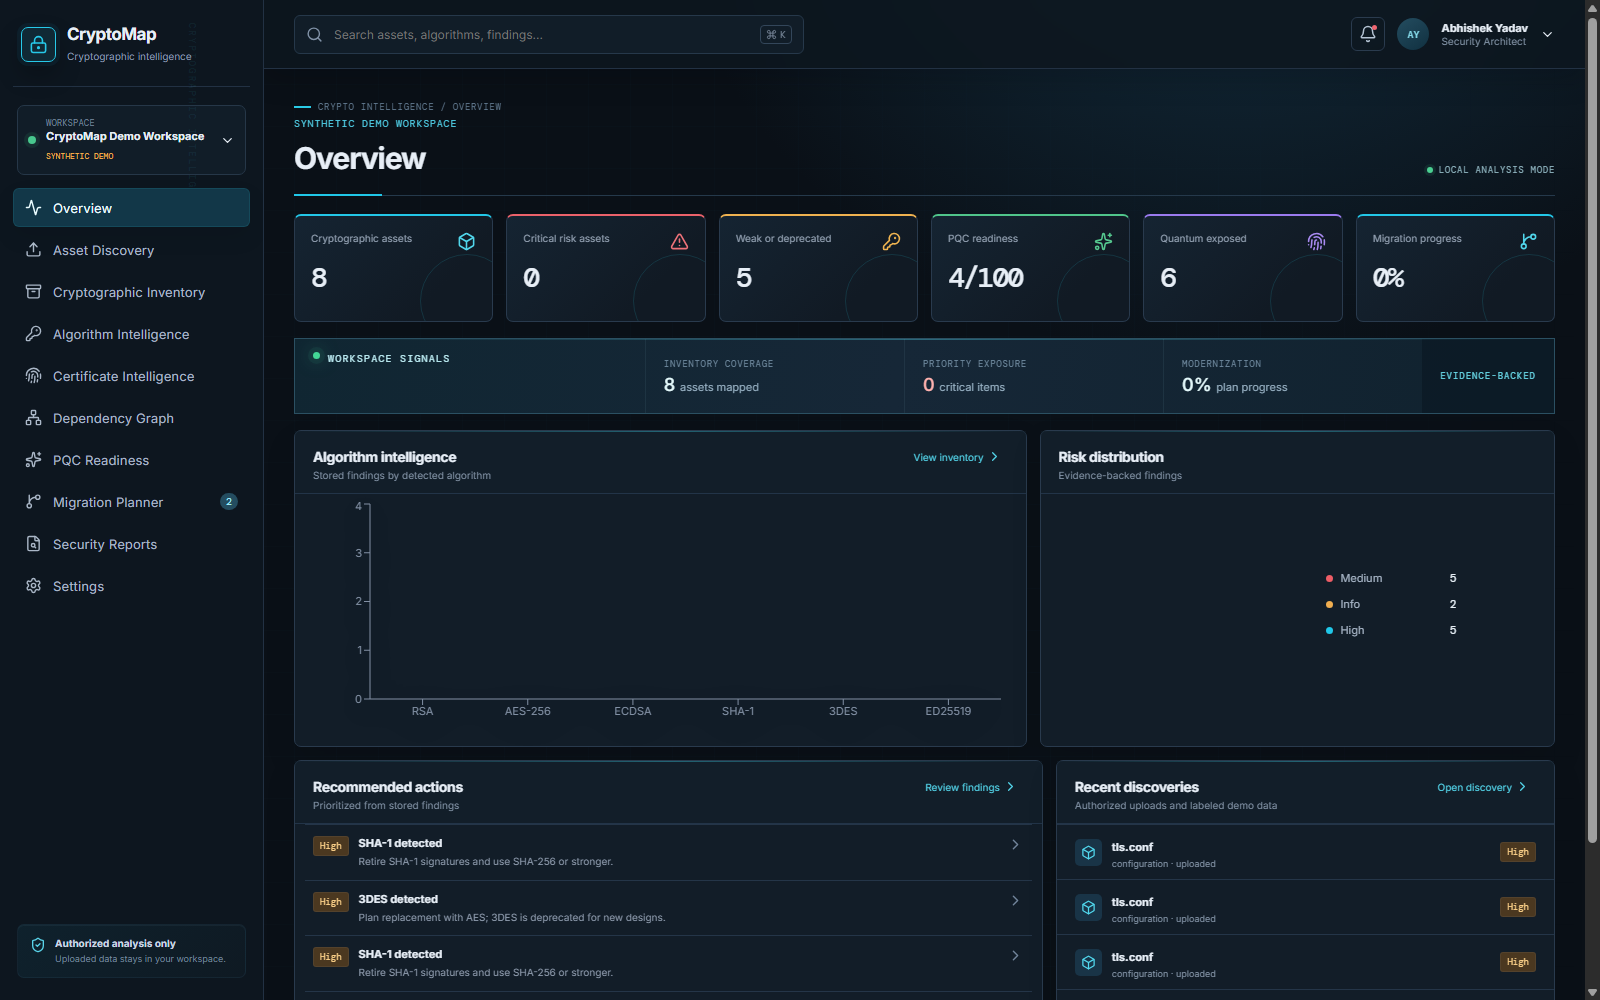
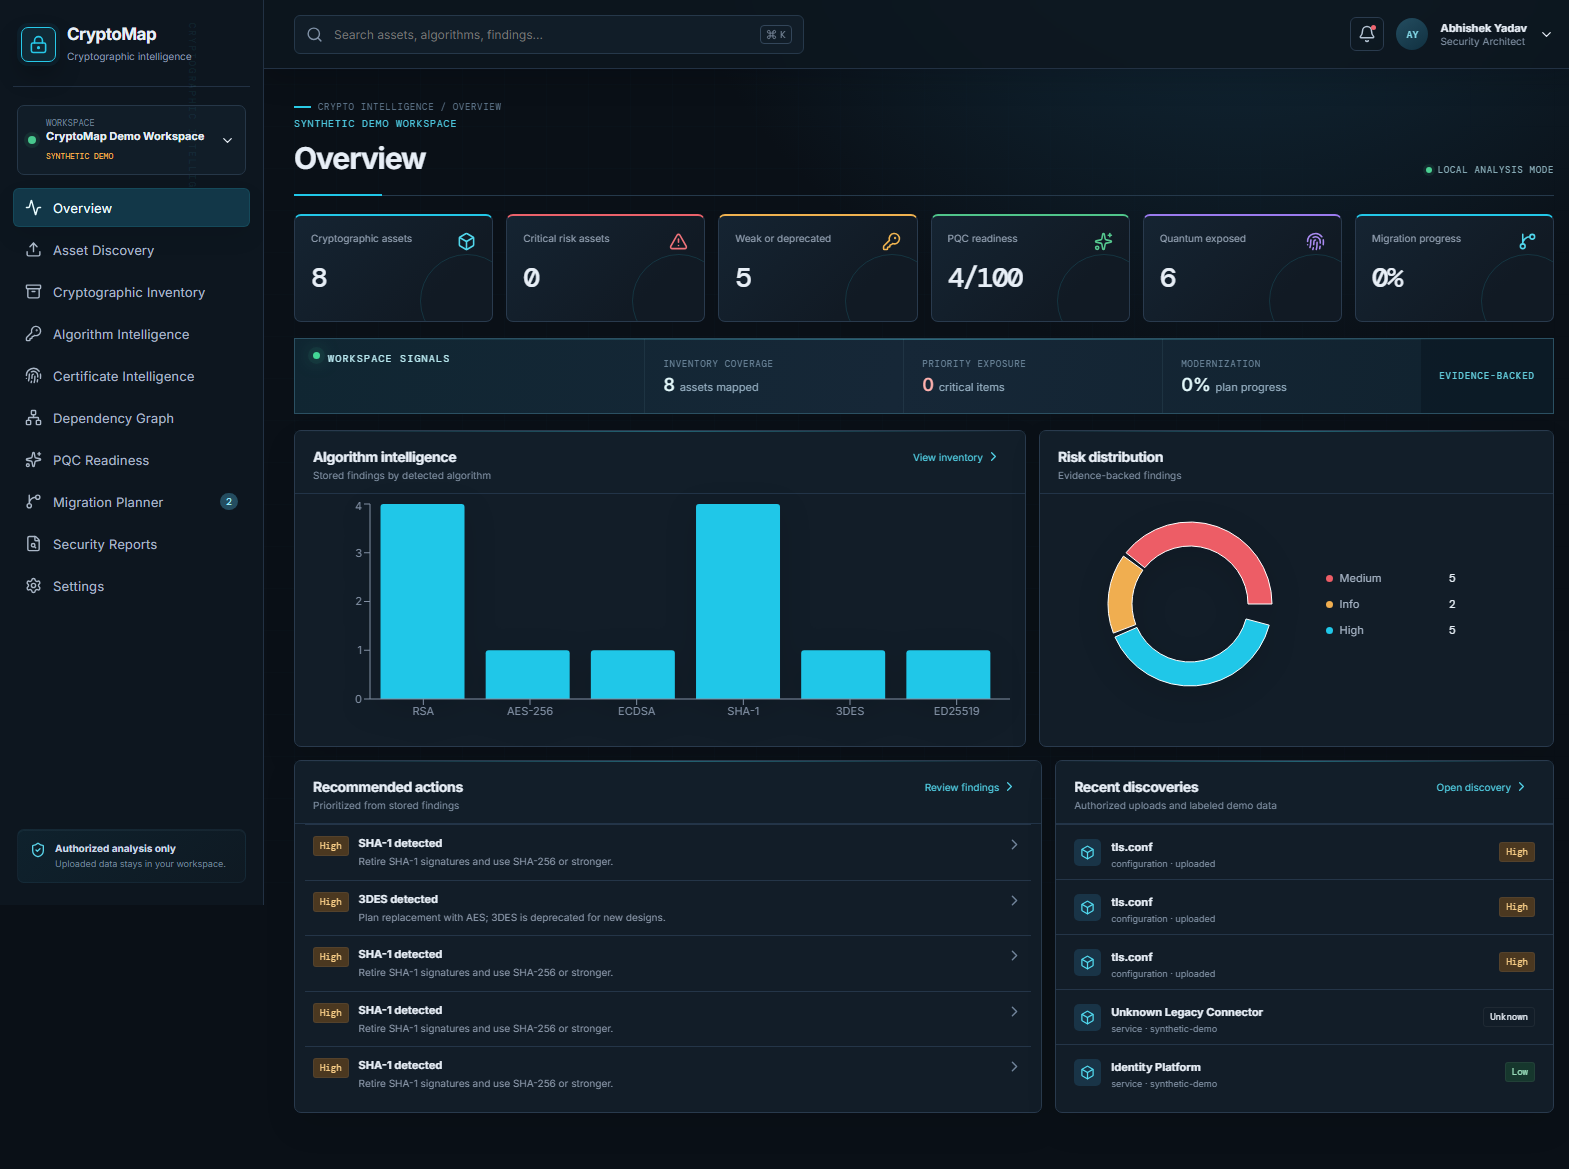
docs: add complete interface screenshot gallery

diff --git a/README.md b/README.md
@@ -53,6 +53,48 @@ CryptoMap is a local-first cybersecurity application for teams that need an evid
       <img src="docs/screenshots/security-reports.png" alt="CryptoMap security reporting and export interface" />
     </td>
   </tr>
+  <tr>
+    <td width="50%" valign="top">
+      <strong>Cryptographic Inventory</strong><br />
+      Workspace-scoped asset records with asset type, evidence source, assessed risk, and discovery time.
+      <br /><br />
+      <img src="docs/screenshots/cryptographic-inventory.png" alt="CryptoMap cryptographic asset inventory" />
+    </td>
+    <td width="50%" valign="top">
+      <strong>Algorithm Intelligence</strong><br />
+      Rule-level evidence, risk classification, quantum relevance, and a recommended action for every finding.
+      <br /><br />
+      <img src="docs/screenshots/algorithm-intelligence.png" alt="CryptoMap algorithm intelligence findings" />
+    </td>
+  </tr>
+  <tr>
+    <td width="50%" valign="top">
+      <strong>Certificate Intelligence</strong><br />
+      Certificate-specific inspection results derived from the authorized evidence in the workspace.
+      <br /><br />
+      <img src="docs/screenshots/certificate-intelligence.png" alt="CryptoMap certificate intelligence results" />
+    </td>
+    <td width="50%" valign="top">
+      <strong>Dependency Graph</strong><br />
+      Visual relationships between stored assets, limited to documented and evidenced dependencies.
+      <br /><br />
+      <img src="docs/screenshots/dependency-graph.png" alt="CryptoMap cryptographic dependency graph" />
+    </td>
+  </tr>
+  <tr>
+    <td width="50%" valign="top">
+      <strong>Migration Planner</strong><br />
+      Persisted modernization tasks with priority, current lifecycle status, and migration direction.
+      <br /><br />
+      <img src="docs/screenshots/migration-planner.png" alt="CryptoMap cryptographic migration planning board" />
+    </td>
+    <td width="50%" valign="top">
+      <strong>Workspace Settings</strong><br />
+      Local development and data-boundary configuration, including explicit synthetic-demo labeling.
+      <br /><br />
+      <img src="docs/screenshots/settings.png" alt="CryptoMap workspace settings and data boundaries" />
+    </td>
+  </tr>
 </table>
 
 ## Product Workflow
